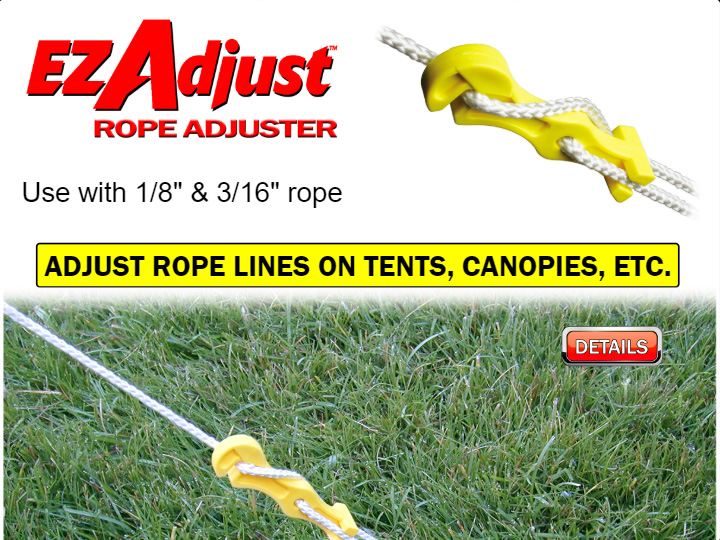
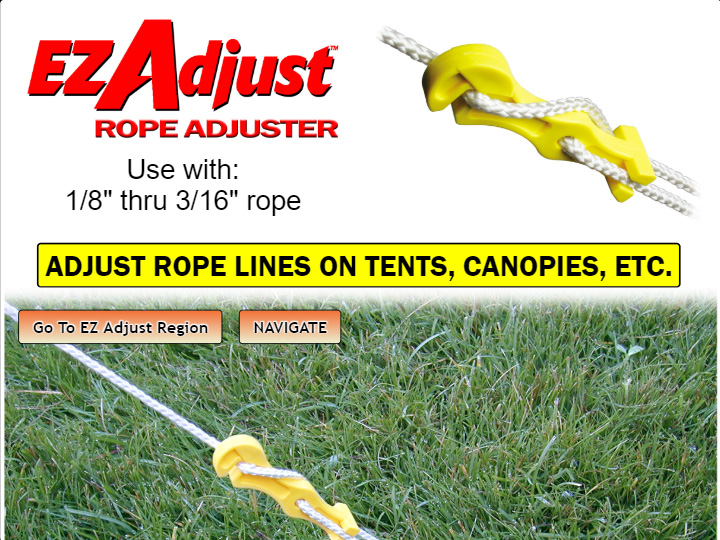
Update components/components00_03/tmpl_02/ttd-vn-mg-not-complete-msg.html file

diff --git a/components/components00_03/tmpl_03/viewTmpl_03.html b/components/components00_03/tmpl_03/viewTmpl_03.html
@@ -1,26 +1,4 @@
-<style>
-.textStyle1
-{
-font-family: 'Franklin Gothic Medium', 'Franklin Gothic', 'ITC Franklin Gothic', Arial, sans-serif;   
-color:red;
-text-align:center; 
-}
-
-.fontFam
-{
-font-family: 'Franklin Gothic Medium', 'Franklin Gothic', 'ITC Franklin Gothic', Arial, sans-serif;     
-}
-
-.imageStyle1:hover
-{
-background-color:black; 
-border-radius:10px;
-box-shadow: 1px 1px 15px #CCEDF2, 1px -1px 15px #CCEDF2, -1px 1px 15px #CCEDF2, -1px -1px 15px #CCEDF2,
-            1px 1px 25px #EAE2BB, 1px -1px 25px #EAE2BB, -1px 1px 25px #EAE2BB, -1px -1px 25px #EAE2BB,
-            1px 1px 25px #EAE2BB, 1px -1px 25px #EAE2BB, -1px 1px 25px #EAE2BB, -1px -1px 25px #EAE2BB;
-}
-
-</style>
+<link rel="stylesheet" type="text/css" href="css/vn-templateStyle1.css">
 
 <div style="text-align:center;">    
 
@@ -38,15 +16,14 @@ box-shadow: 1px 1px 15px #CCEDF2, 1px -1px 15px #CCEDF2, -1px 1px 15px #CCEDF2, 
                 <div    id="div1" 
                         style="font-family: 'Arial Rounded MT Bold', 'Helvetica Rounded', Arial, sans-serif; 
                                {{$ctrl.rs1fontsize1}}; 
-                               /*font-size:3em;*/
                                color:black; 
-                               /*text-indent:5%; */
-                               //text-shadow:1px 1px 1px black;">
-                    <br>Use with 1/8" & 3/16" rope
+                               margin-top:10px;
+                              ">
+                    Use with:<br>1/8" thru 3/16" rope
                 </div>
             </td>
             <td style="width:50%">
-                <img    src="components/components00_03/tmpl_03/ttd-vn-eza-device-1300x810.jpg" 
+                <img    src="https://www.tarptiedown.com/components/components00_03/tmpl_03/ttd-vn-eza-device-1300x810.jpg" 
                         alt="EZ Adjust Device." 
                         title="EZ Adjust Device" 
                         style=" width:100%; 
@@ -74,24 +51,67 @@ box-shadow: 1px 1px 15px #CCEDF2, 1px -1px 15px #CCEDF2, -1px 1px 15px #CCEDF2, 
    
 <!-- AR Response Section 3 ************************************************************************************************************************************************-->
     <br>
-    <div style="position:relative;">
-        
-        <div style="position:absolute; 
-                    {{$ctrl.rs3positiontop1}}; 
-                    {{$ctrl.rs3positionleft1}}; /* AR_80_75 */
-                    z-index:2;">
-                    <a href="https://www.tarptiedown.com/index-old.html"> 
-                        <img src="https://tarptiedown.com/resources/ttd-vn-button3-300x120.png" 
-                             alt="button" 
-                             class="imageStyle1"
-                             style="{{$ctrl.rs3width3}};">
-                    </a>
-        </div>
+    <div style="position:relative;
+                {{$ctrl.rs3fontsize1}};
+               ">
         
         <img    src="components/components00_03/tmpl_03/ttd-vn-eza-app1-1200x900.jpg" 
-                alt="EZ Adjust Application" 
-                title="EZ Adjust Application" 
+                alt="EZ Adjust Rope Adjuster Application Presentation" 
+                title="EZ Adjust Rope Adjuster Application Presentation" 
                 style="position:absolute; top:0px; left:0px; width:100%;"> 
+        
+        <div style="position:absolute;
+                    left:2%;
+                    {{$ctrl.rs3top1}};
+                   ">
+            <a  href="https://www.tarptiedown.com/components/components00_03/tmpl_03/ttd-vn-eza-not-complete-msg.html"
+                class="btnStyle2"
+                style= "{{$ctrl.rs3padding1}};
+                        text-decoration:none;
+                        font-weight:bold;
+                       "
+               > Go To EZ Adjust Region
+                
+            </a>
+            <div class="btnStyle2" 
+                 ng-click="$ctrl.moreless2()"
+                 style="{{$ctrl.rs3padding1}};
+                        {{$ctrl.rs3marginleft1}};
+                        font-weight:bold;
+                       ">
+                     {{$ctrl.morelessText2}}
+            </div>
+            <div class="textBoxStyle2 textStyle3"
+                 ng-show="$ctrl.display2">
+                 
+                <table  style= "width:100%;">
+                    <tr><td><u>SELECTION</u>&nbsp;&nbsp;&nbsp;&nbsp;&nbsp;&nbsp;</td>
+                        <td><u>DESTINATION</u>
+                            <span   class= "youAreHere2">
+                                &nbsp;&nbsp;you are here&nbsp;&nbsp;
+                            </span>
+                        </td>
+                    </tr>
+                    <tr class="topMenuNav">  <td class="tdStyle">TTD Intro          </td><td class="tdStyle">Tarp Tie Down Home & intro </td></tr>
+                    <tr class="topMenuNav">  <td class="tdStyle">Price/Buy          </td><td class="tdStyle">Product pricing and store  </td></tr>
+                    <tr class="topMenuNav">  <td class="tdStyle">Products           </td><td class="tdStyle">Tarp Tie Down products     </td></tr>
+                    <tr class="topMenuNav">  <td class="tdStyle">Reviews            </td><td class="tdStyle">Customer feedback          </td></tr>
+                    <tr class="hyperMenuNav"><td class="tdStyle">Button A  Thumb 1  </td><td class="tdStyle">Standard EZ Grabbit        </td></tr>
+                    <tr class="hyperMenuNav"><td class="tdStyle">Button A  Thumb 2  </td><td class="tdStyle">Long Grabbit               </td></tr>
+                    <tr class="hyperMenuNav"><td class="tdStyle">Button A  Thumb 3  </td><td class="tdStyle">Mini Grabbit               </td></tr>
+                    <tr class="youAreHere">  <td class="tdStyle">Button A  Thumb 4  </td><td class="tdStyle">EZ Adjust Rope Adjuster    </td></tr>
+                    <tr class="hyperMenuNav"><td class="tdStyle">Button B  Thumb 1  </td><td class="tdStyle">RockBuster Ground Stake    </td></tr>
+                    <tr class="hyperMenuNav"><td class="tdStyle">Button B  Thumb 2  </td><td class="tdStyle">Bag Grabbit Bag Handle     </td></tr>
+                    <tr class="hyperMenuNav"><td class="tdStyle">Button B  Thumb 3  </td><td class="tdStyle">The EZ Grabbit Keeper      </td></tr>
+                    <tr class="hyperMenuNav"><td class="tdStyle">Button B  Thumb 4  </td><td class="tdStyle">Carry/Duffle Bag           </td></tr>
+                    <tr class="hyperMenuNav"><td class="tdStyle">Button C  Thumb 1  </td><td class="tdStyle">Tent Poles                 </td></tr>
+                    <tr class="hyperMenuNav"><td class="tdStyle">Button C  Thumb 2  </td><td class="tdStyle">Classic EZ Grabbit         </td></tr>
+
+                </table>
+            </div>  
+        </div>
+        
+        
     </div>
 
 </div> 

diff --git a/components/components00_03/tmpl_03/ttd-vn-eza-not-complete-msg.html b/components/components00_03/tmpl_03/ttd-vn-eza-not-complete-msg.html
@@ -19,31 +19,31 @@
     </div>
     <div style="max-width:1170px; margin-left:auto; margin-right:auto; font-size:1.0em;">	
         <p id="p1" style="text-align:center;">
-            Our Mini Grabbit region is <span style="text-decoration:underline; font-weight:bold;">not</span> yet Complete 
+            Our EZ Adjust region is <span style="text-decoration:underline; font-weight:bold;">not</span> yet Complete 
         </p>
 
         <p style="text-align:center;">
-            Please click on the Mini Grabbit button to go to our Mini Grabbit store item. The product info there is helpful.<br><br>
+            Please click on the EZ Adjust button to go to our EZ Adjust store item. The product info there is helpful.<br><br>
             <b>NOTE!</b><br>
                 <span style="font-family:Franklin Gothic Medium, Franklin Gothic, ITC Franklin Gothic, Arial, sans-serif; 
                              color:blue;
                             ">
-                    Full Mini Grabbit product info is on the way.
+                    Full EZ Adjust product info is on the way.
                 </span>
                 <br><br> 
         </p>	
 
         <div id="d1"
              style="text-align:center">
-                <a href="https://www.tarptiedown.com/TTD-Store/index.php?rt=product/category&path=1_3&session_id=6j7rvh11bja994asmiaq72uj26"
+                <a href="https://www.tarptiedown.com/TTD-Store/index.php?rt=product/category&path=10&session_id=6j7rvh11bja994asmiaq72uj26"
                    class="btnStyle2"
                    style="text-decoration:none;">
-                        Mini Grabbit Tarp Tie Down Store Item
+                        EZ Adjust Store Item
                 </a><br><br>
-                <a href="https://www.tarptiedown.com/#/view02" 
+                <a href="https://www.tarptiedown.com" 
                    class="btnStyle2"
                    style="text-decoration:none;">
-                        Return
+                        Return to TTD Home
                 </a>
         </div> 
     </div>

diff --git a/components/components00_03/components00_03.js b/components/components00_03/components00_03.js
@@ -163,10 +163,24 @@ angular.module('viewNav')
             self03.rs2fontsize2 = "font-size:" + ((0.00265)*(viewWidth)-0.10556) + "em";
             
             // Response Section 3
-            self03.rs3positiontop1 = "top:" + ((0.04938)*(viewWidth)+2.22222) + "px";
-            self03.rs3positionleft1 = "left:" + ((0.00617)*(viewWidth)+72.77778) + "%";
-            self03.rs3width3 = "width:" + ((0.09877)*(viewWidth)+34.44444) + "px";      // AR_150_70 
-            self03.rs31fontsize4 = "font-size:" + ((0.00068)*(viewWidth)+0.45556) + "em";
+            self03.rs3fontsize1 = "font-size:" + ((0.00095)*(viewWidth)+0.38778) + "em";        /* AR_1.50_0.73 */
+            self03.rs3top1 = "top:" + ((0.01852)*(viewWidth)+8.33333) + "px";                   /* AR_30.00_15.00 */      
+            self03.rs3marginleft1= "margin-left:" + ((0.01852)*(viewWidth)-1.66667) + "px";     /* AR_20.00_5.00 */
+            self03.rs3padding1 = "padding:" + ((0.00617)*(viewWidth)+2.77778) + "px " + ((0.01235)*(viewWidth)+5.55556) + "px";    /* AR_10.00_5.00 */ /* AR_20.01_10.00 */
+            
+            // Sets mode of the "NAVIGATE" button
+            self03.display2 = false;
+            self03.morelessText2 = "NAVIGATE";
+            self03.moreless2 = function(){
+                if(self03.morelessText2 === "NAVIGATE"){
+                    self03.morelessText2 = "HIDE NAVIGATE";
+                    self03.display2 = true;
+                } 
+                else {
+                    self03.morelessText2 = "NAVIGATE";
+                    self03.display2 = false;
+                }
+            };
             
             compFactory.logView(03);
         }]

diff --git a/controller-client.js b/controller-client.js
@@ -289,7 +289,7 @@ angular.module('viewNav')
 //***********************************************************************************************************************************************************            
 // $state.go('some-view') loads the desired view as the default view upon load               
         var stateGo = (function(){    
-            $state.go('view02');
+            $state.go('view03');
 /*             
                 // Use this setTimeout if intializing with a template. If you initialize with a template only the first thumbnail group will show properly. If
                 // it's a template (view04 and up) then the proper thumbnail group won't show unless you call the stateHistory method and send it the proper parameters

diff --git a/components/components00_03/tmpl_02/ttd-vn-mg-not-complete-msg.html b/components/components00_03/tmpl_02/ttd-vn-mg-not-complete-msg.html
@@ -40,10 +40,10 @@
                    style="text-decoration:none;">
                         Mini Grabbit Tarp Tie Down Store Item
                 </a><br><br>
-                <a href="https://www.tarptiedown.com/#/view02" 
+                <a href="https://www.tarptiedown.com" 
                    class="btnStyle2"
                    style="text-decoration:none;">
-                        Return
+                        Return to TTD Home
                 </a>
         </div> 
     </div>
